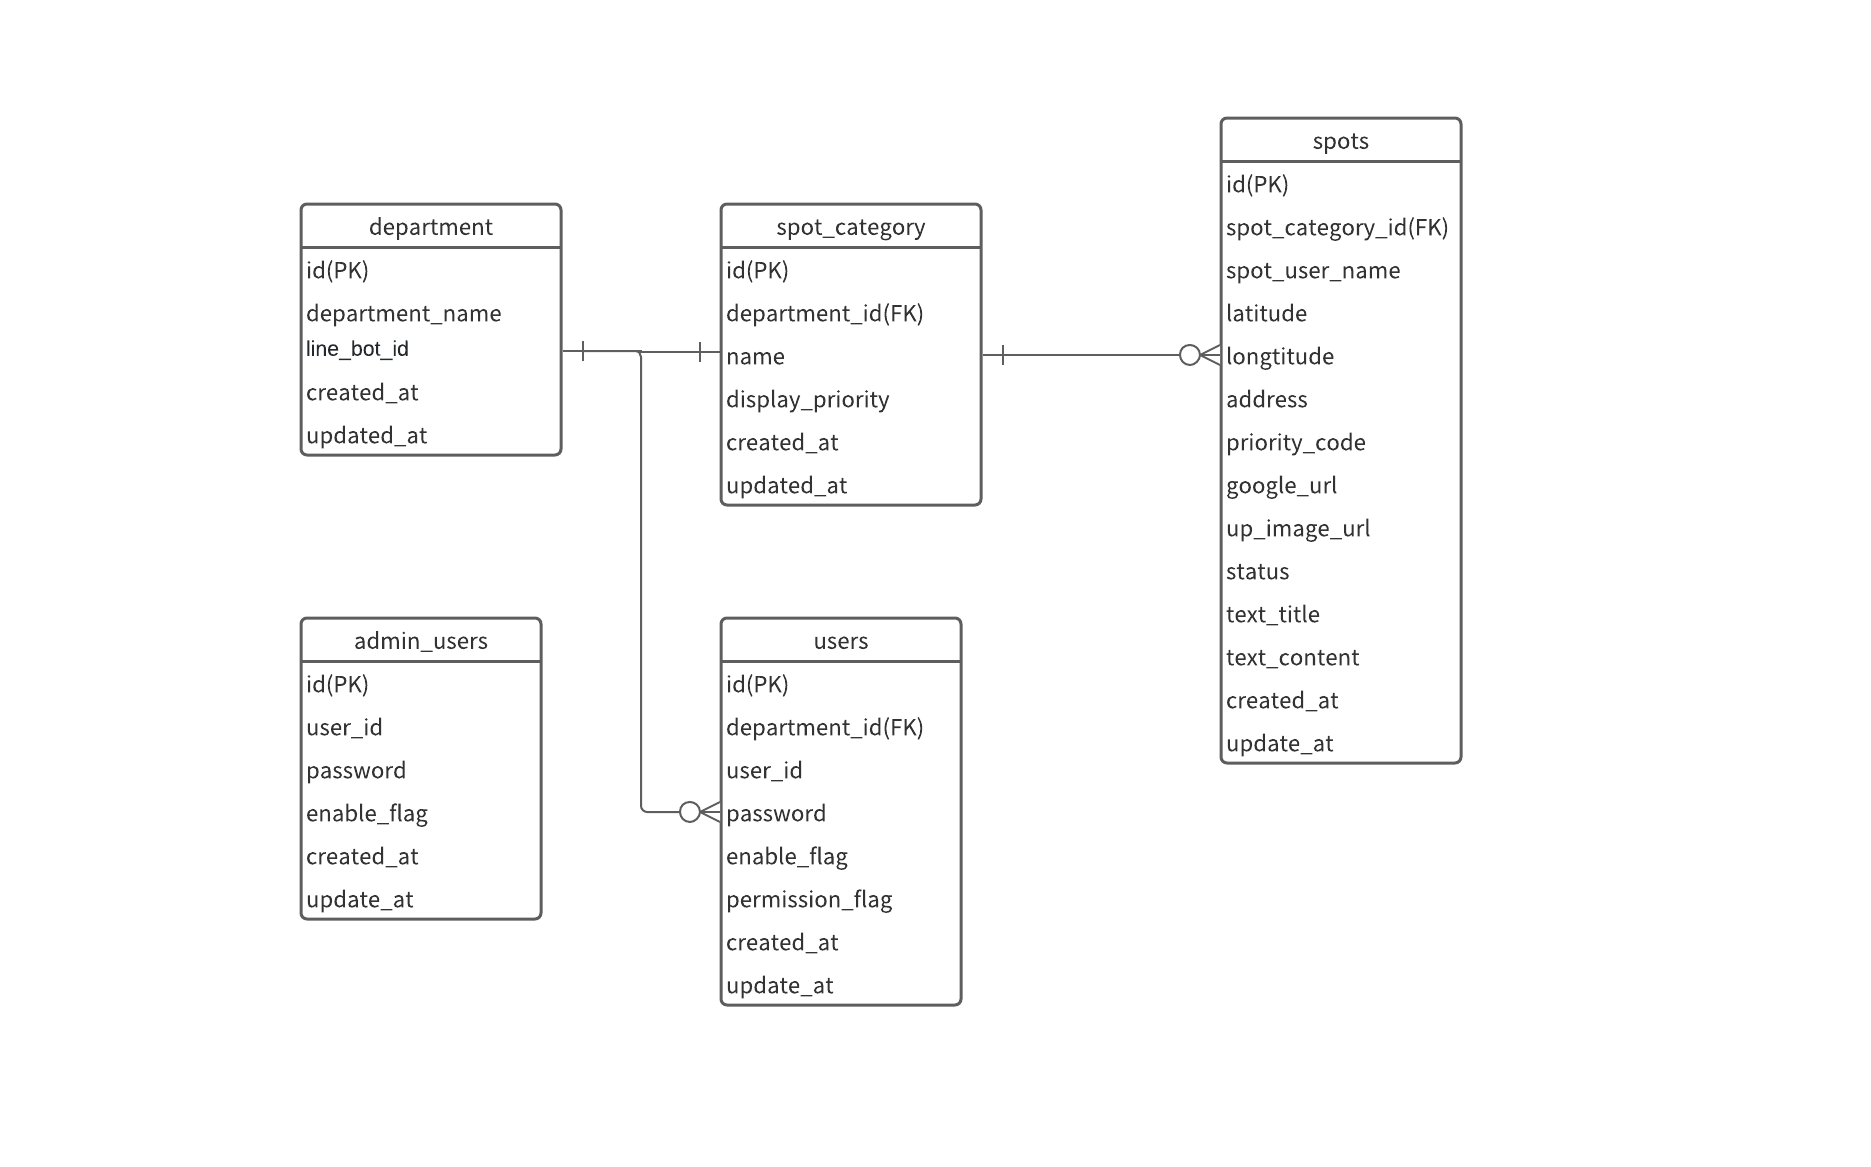
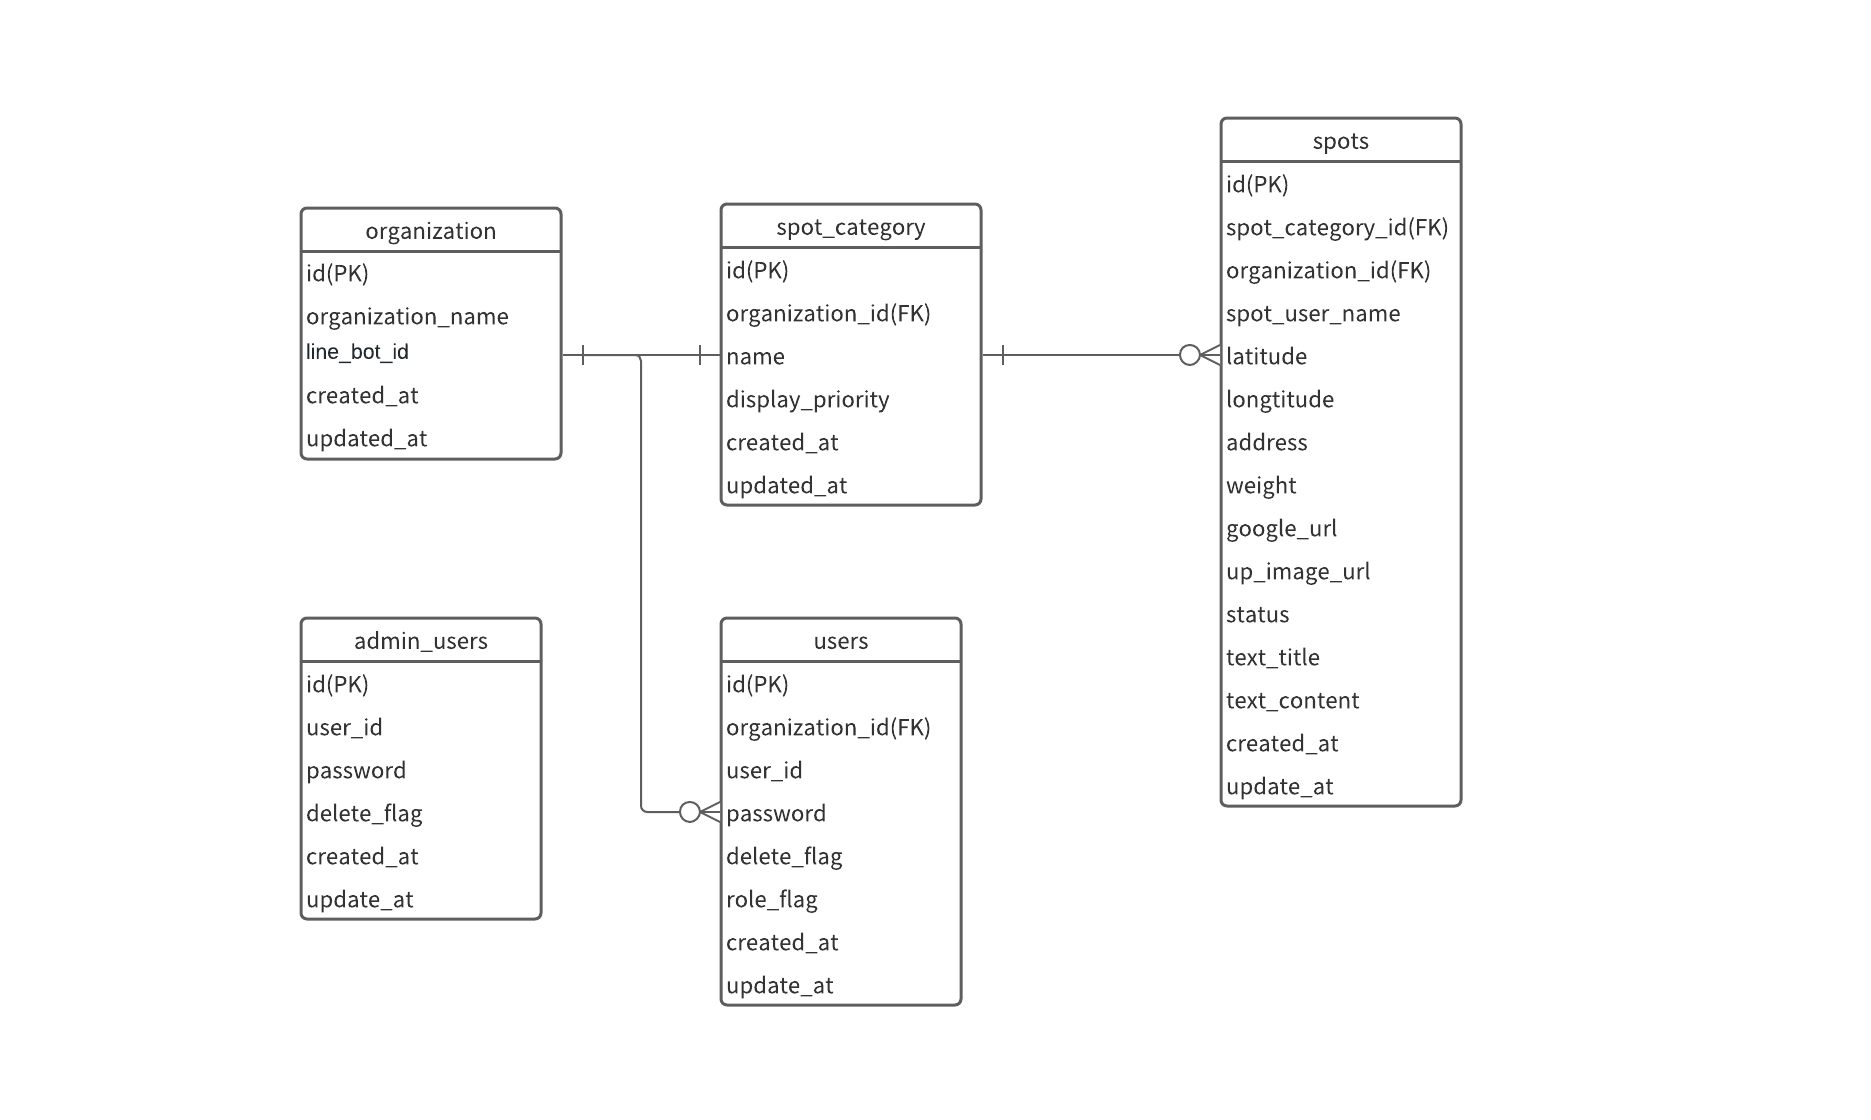
テーブル変更0409

diff --git a/テーブルデータ(暫定_マルチテナント対応)_佐藤/基本設計書.md b/テーブルデータ(暫定_マルチテナント対応)_佐藤/基本設計書.md
@@ -8,7 +8,7 @@
 | 1  | spots     | スポット管理                |
 | 2  | spot_category          | 投稿カテゴリ |
 | 3  | users             | webコンソールユーザー               |
-| 4  | department          | テナント |
+| 4  | organization          | テナント |
 | 5  | admin_users             | web adminコンソールユーザー               |
 
 
@@ -18,23 +18,24 @@
 |----|--------------------|--------------------------|---------|----|-----------|--------|----|------------|-------|-------|---------------------|--------------------------|
 | 1  | id                 | serial                   | 4バイト | 〇 | 〇        | 〇     | -  | 〇         | -     | 〇    | スポットid              | フレームワーク標準 |
 | 2  | spot_category_id   | integer                  | 4バイト | -  | 〇        | -      | 〇 | -          | -     | 〇    | スポットカテゴリid      | サービス利用       |
-| 3  | spot_user_name     | varchar                  | 30文字  | -  | -         | -      | -  | -          | -     | -     | 投稿者の名前            | サービス利用       |
-| 4  | latitude           | double precision         | 8バイト | -  | -         | -      | -  | -          | -     | -     | おすすめスポットの緯度  | サービス利用       |
-| 5  | longtitude         | double precision         | 8バイト | -  | -         | -      | -  | -          | -     | -     | おすすめスポットの経度  | サービス利用       |
-| 6  | address            | varchar                  | 30文字  | -  | -         | -      | -  | -          | -     | -     | 住所                    | サービス利用       |
-| 7  | priority_code      | integer                  | 4バイト | -  | 〇        | -      | -  | -          | 1     | -     | 優先度1～5              | サービス利用       |
-| 8  | google_url         | varchar                  | 200文字 | -  | -         | -      | -  | -          | -     | -     | googlemapのurl          | サービス利用       |
-| 9  | up_image_url       | varchar                  | 200文字 | -  | -         | -      | -  | -          | -     | -     | 画像url                 | サービス利用       |
-| 10 | status             | enum                     | -       | -  | 〇        | -      | -  | -          | 未着手| -     | スポットの進捗ステータス| サービス利用,enum値は"未着手"or"進行中"or"完了" |
-| 11 | text_title         | varchar                  | 30文字  | -  | -         | -      | -  | -          | -     | -     | スポットのタイトル      | サービス利用       |
-| 12 | text_content       | varchar                  | 200文字 | -  | -         | -      | -  | -          | -     | -     | スポットのテキスト      | サービス利用       |
-| 13 | created_at         | timestamp with time zone | 8バイト | -  | 〇        | -      | -  | -          | -     | -     | スポット情報作成日      | フレームワーク標準 |
-| 14 | updated_at         | timestamp with time zone | 8バイト | -  | 〇        | -      | -  | -          | -     | -     | スポット情報更新日      | フレームワーク標準 |
+| 3  | organization_id    | serial                   | 4バイト | -  | 〇        | 〇     | 〇 | -          | -     | -     | テナントid              | サービス利用       |
+| 4  | spot_user_name     | varchar                  | 30文字  | -  | -         | -      | -  | -          | -     | -     | 投稿者の名前            | サービス利用       |
+| 5  | latitude           | double precision         | 8バイト | -  | -         | -      | -  | -          | -     | -     | おすすめスポットの緯度  | サービス利用       |
+| 6  | longtitude         | double precision         | 8バイト | -  | -         | -      | -  | -          | -     | -     | おすすめスポットの経度  | サービス利用       |
+| 7  | address            | varchar                  | 30文字  | -  | -         | -      | -  | -          | -     | -     | 住所                    | サービス利用       |
+| 8  | priority_code      | integer                  | 4バイト | -  | 〇        | -      | -  | -          | 1     | -     | 優先度1～5              | サービス利用       |
+| 9  | google_url         | varchar                  | 200文字 | -  | -         | -      | -  | -          | -     | -     | googlemapのurl          | サービス利用       |
+| 10 | up_image_url       | varchar                  | 200文字 | -  | -         | -      | -  | -          | -     | -     | 画像url                 | サービス利用       |
+| 11 | status             | enum                     | -       | -  | 〇        | -      | -  | -          | 未着手| -     | スポットの進捗ステータス| サービス利用,enum値は"未着手"or"進行中"or"完了" |
+| 12 | text_title         | varchar                  | 30文字  | -  | -         | -      | -  | -          | -     | -     | スポットのタイトル      | サービス利用       |
+| 13 | text_content       | varchar                  | 200文字 | -  | -         | -      | -  | -          | -     | -     | スポットのテキスト      | サービス利用       |
+| 14 | created_at         | timestamp with time zone | 8バイト | -  | 〇        | -      | -  | -          | -     | -     | スポット情報作成日      | フレームワーク標準 |
+| 15 | updated_at         | timestamp with time zone | 8バイト | -  | 〇        | -      | -  | -          | -     | -     | スポット情報更新日      | フレームワーク標準 |
 #### spot_categoryテーブル
 | No | カラム名        | データ型                 | 長さ     | PK | NOT NULL   | UNIQUE | FK | オートインクリメント | デフォルト | INDEX | カラム説明            | 備考                       |
 |----|-----------------|--------------------------|----------|----|------------|--------|----|------------|-------|-------|------------------|--------------------------|
 | 1  | id              | serial                   | 4バイト  | 〇 | 〇         | 〇     | -  | 〇         | -     | 〇    | カテゴリid              | フレームワーク標準       |
-| 2  | department_id   | serial                   | 4バイト  | -  | 〇         | 〇     | 〇 | -          | -     | -     | テナントid              | サービス利用             |
+| 2  | organization_id | serial                   | 4バイト  | -  | 〇         | 〇     | 〇 | -          | -     | -     | テナントid              | サービス利用             |
 | 3  | name            | varchar                  | 30文字   | -  | 〇         | -      | -  | -          | -     | 〇    | カテゴリ名              | サービス利用             |
 | 4  | display_priority| serial                   | 4バイト  | -  | 〇         | 〇     | -  | -          | -     | -     | Lineアプリ画面表示順序  | サービス利用             |
 | 5  | created_at      | timestamp with time zone | 8バイト  | -  | 〇         | -      | -  | -          | -     | -     | 地域情報作成日          | フレームワーク標準       |
@@ -42,19 +43,19 @@
 #### usersテーブル
 | No | カラム名       | データ型                 | 長さ    | PK | NOT NULL   | UNIQUE | FK | オートインクリメント | デフォルト | INDEX | カラム説明          | 備考                                       |
 |----|----------------|--------------------------|---------|----|------------|--------|----|------------|-------|-------|----------------|------------------------------------------|
-| 1  | id             | serial                   | 4バイト | 〇 | 〇         | 〇     | -  | 〇         | -     | 〇    | ユーザーid                  | フレームワーク標準      |
-| 2  | user_id        | varchar                  | 50文字  | -  | 〇         | -      | -  | -          | -     | 〇    | ログインid                  | サービス利用            |
-| 3  | department_id  | serial                   | 4バイト | -  | 〇         | 〇     | 〇 | -          | -     | -     | テナントid                  | サービス利用            |
-| 4  | password       | text                     | -       | -  | 〇         | -      | -  | -          | -     | -     | パスワード                  | フレームワーク標準      |
-| 5  | enable_flag    | boolean                  | -       | -  | 〇         | -      | -  | -          | False | -     | 削除フラグ(Trueで論理削除)  | サービス利用            |
-| 6  | permission_flag| boolean                  | -       | -  | 〇         | -      | -  | -          | False | -     | 権限フラグ(Trueで管理者権限)| サービス利用            |
-| 7  | created_at     | timestamp with time zone | 8バイト | -  | 〇         | -      | -  | -          | -     | -     | ユーザー情報作成日          | フレームワーク標準      |
-| 8  | updated_at     | timestamp with time zone | 8バイト | -  | 〇         | -      | -  | -          | -     | -     | ユーザー情報更新日          | フレームワーク標準      |
-#### departmentテーブル
+| 1  | id             | serial                   | 4バイト | 〇 | 〇         | 〇     | -  | 〇         | -     | 〇    | ユーザーid                    | フレームワーク標準      |
+| 2  | user_id        | varchar                  | 50文字  | -  | 〇         | -      | -  | -          | -     | 〇    | ログインid                    | サービス利用            |
+| 3  | organization_id| serial                   | 4バイト | -  | 〇         | 〇     | 〇 | -          | -     | -     | テナントid                    | サービス利用            |
+| 4  | password       | text                     | -       | -  | 〇         | -      | -  | -          | -     | -     | パスワード                    | フレームワーク標準      |
+| 5  | delete_flag    | boolean                  | -       | -  | 〇         | -      | -  | -          | False | -     | 削除フラグ(Trueで論理削除)    | サービス利用            |
+| 6  | role_flag      | boolean                  | -       | -  | 〇         | -      | -  | -          | False | -     | 権限フラグ(Trueで管理者ロール)| サービス利用,管理者ロールはスポットの公開許可及びユーザー作成が可能|
+| 7  | created_at     | timestamp with time zone | 8バイト | -  | 〇         | -      | -  | -          | -     | -     | ユーザー情報作成日            | フレームワーク標準      |
+| 8  | updated_at     | timestamp with time zone | 8バイト | -  | 〇         | -      | -  | -          | -     | -     | ユーザー情報更新日            | フレームワーク標準      |
+#### organizationテーブル
 | No | カラム名                  | データ型                 | 長さ    | PK | NOT NULL  | UNIQUE | FK | オートインクリメント | デフォルト | INDEX | カラム説明                   | 備考 |
 |----|---------------------------|--------------------------|---------|----|-----------|--------|----|----------------------|------------|-------|------------------------------|------|
 | 1  | id                        | serial                   | 4バイト | 〇 | 〇        | 〇     | -  | 〇                   | -          | 〇    | テナントid                   | フレームワーク標準 |
-| 2  | department_name           | varchar                  | 100文字 | -  | 〇        | -      | -  | -                    | -          | 〇    | テナント名                   | サービス利用       |
+| 2  | organization_name         | varchar                  | 100文字 | -  | 〇        | -      | -  | -                    | -          | 〇    | テナント名                   | サービス利用       |
 | 3  | line_bot_id               | varchar                  | 50文字  | -  | 〇        | 〇     | -  | -                    | -          | -     | 利用するLINE BOTのユーザーID | サービス利用       |
 | 4  | created_at                | timestamp with time zone | 8バイト | -  | 〇        | -      | -  | -                    | -          | -     | テナント情報作成日           | フレームワーク標準 |
 | 5  | updated_at                | timestamp with time zone | 8バイト | -  | 〇        | -      | -  | -                    | -          | -     | テナント情報更新日           | フレームワーク標準 |
@@ -64,7 +65,7 @@
 | 1  | id             | serial                   | 4バイト| 〇 | 〇        | 〇     | -  | 〇         | -     | 〇    | ユーザーid                | フレームワーク標準            |
 | 2  | user_id        | varchar                  | 50文字 | -  | 〇        | -      | -  | -          | -     | 〇    | ログインid                | サービス利用                  |
 | 3  | password       | text                     | -      | -  | 〇        | -      | -  | -          | -     | -     | パスワード                | フレームワーク標準            |
-| 4  | enable_flag    | boolean                  | -      | -  | 〇        | -      | -  | -          | -     | -     | 削除フラグ(Trueで論理削除)| サービス利用                  |
+| 4  | delete_flag    | boolean                  | -      | -  | 〇        | -      | -  | -          | -     | -     | 削除フラグ(Trueで論理削除)| サービス利用                  |
 | 5  | created_at     | timestamp with time zone | 8バイト| -  | 〇        | -      | -  | -          | -     | -     | ユーザー情報作成日        | フレームワーク標準            |
 | 6  | updated_at     | timestamp with time zone | 8バイト| -  | 〇        | -      | -  | -          | -     | -     | ユーザー情報更新日        | フレームワーク標準            |
 
